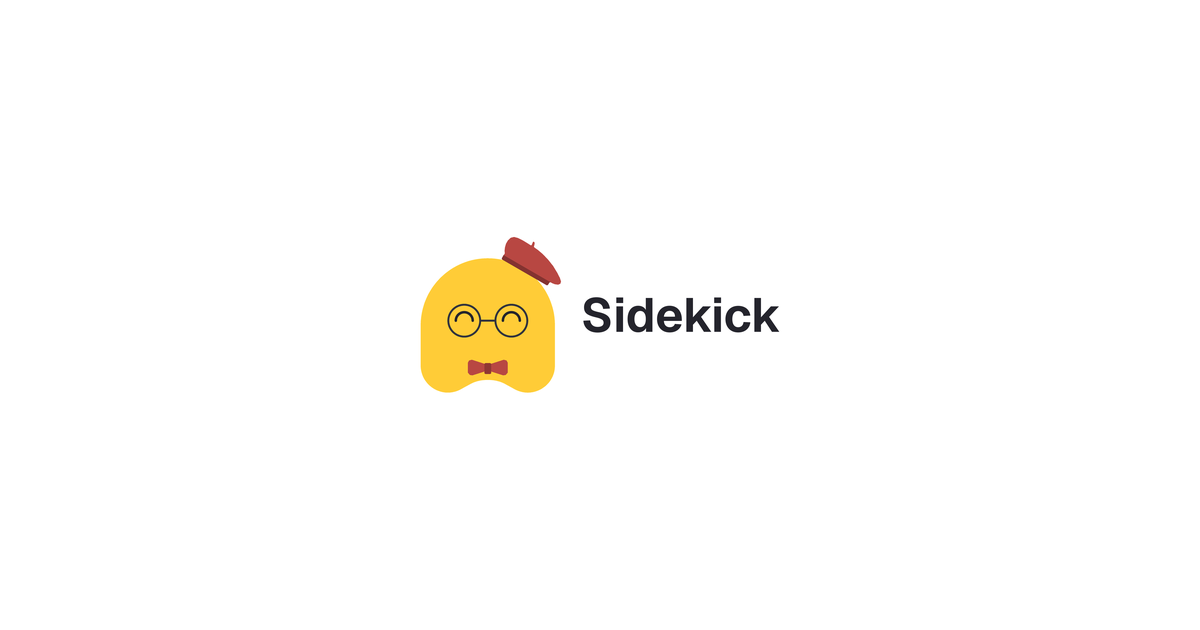
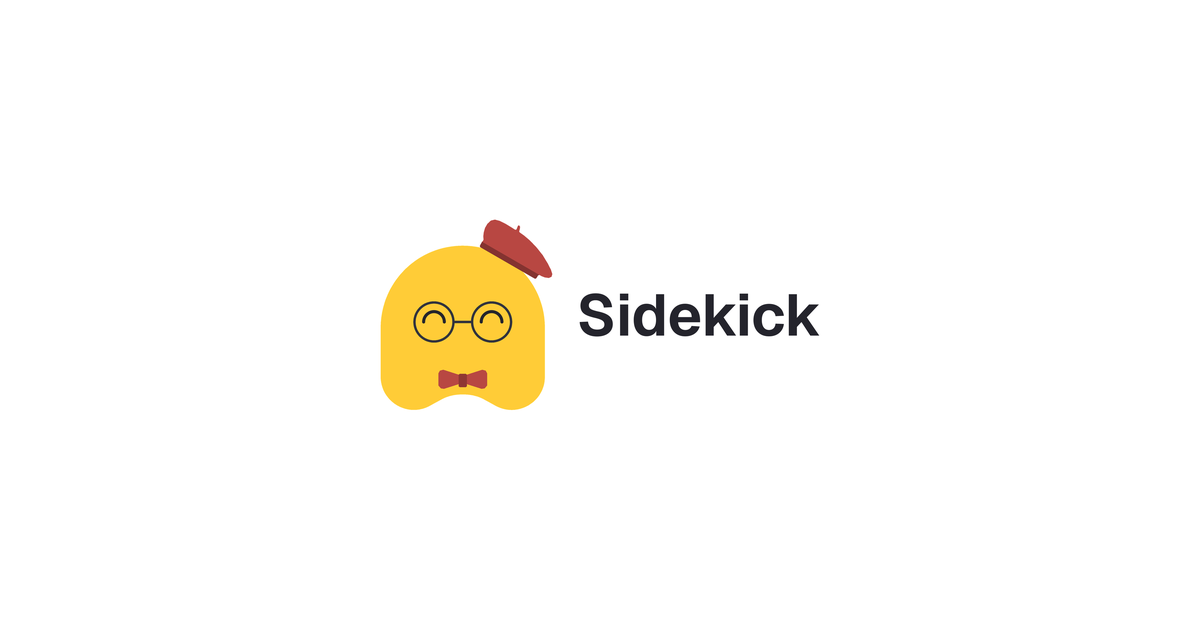
Set final OG composition to forty-four percent original scale

Changed region(s): [[0.3083, 0.3317, 0.6783, 0.6635]]

diff --git a/tests/composition.test.ts b/tests/composition.test.ts
@@ -7,7 +7,7 @@ test('OG scene uses requested actual character, outfits and expression', () => {
 test('composition roundtrip preserves avatar and framing independently',()=>{ const composition={...defaultComposition(),text:'두 줄\nSidekick',width:1080,height:1080}; const avatar=ogAvatarScene(); assert.deepEqual(parseCompositionDocument(serializeComposition(composition,avatar)),{composition,avatar}); });
 test('previous scene and bare design remain importable',()=>{ for(const data of [ogAvatarScene(),createDesign()]){const doc=parseCompositionDocument(JSON.stringify(data));assert.deepEqual(doc.composition,defaultComposition());assert.equal(doc.avatar.design.version,7);} });
 test('strict validation bounds pixel allocation and rejects malformed values',()=>{ for(const patch of [{width:4096,height:4096},{width:320.5},{characterX:NaN},{font:'url(evil)'},{background:'red'},{text:'a'.repeat(201)},{surprise:1}])assert.throws(()=>parseComposition({...defaultComposition(),...patch}));assert.throws(()=>parseCompositionDocument(' '.repeat(131073)));assert.throws(()=>parseCompositionDocument(JSON.stringify({compositionVersion:2}))); });
-test('compositor uses exact full canvas size and image aspect ratio',()=>{ const calls:unknown[][]=[];const ctx={fillRect:(...a:unknown[])=>calls.push(['background',...a]),drawImage:(...a:unknown[])=>calls.push(['image',...a]),fillText:(...a:unknown[])=>calls.push(['text',...a])};const canvas={width:0,height:0,getContext:()=>ctx} as unknown as HTMLCanvasElement;const image={width:200,height:400} as unknown as HTMLImageElement;paintComposition(canvas,defaultComposition(),image);assert.equal(canvas.width,1200);assert.equal(canvas.height,630);assert.deepEqual(calls[0],['background',0,0,1200,630]);const draw=calls[1]!; assert.ok(Math.abs(Number(draw[4])-78.84)<0.01); assert.ok(Math.abs(Number(draw[5])-157.68)<0.01); const text=calls[2]!;assert.equal(text[1],'Sidekick');assert.ok(Math.abs(Number(text[2])-580.56)<0.01);assert.equal(text[3],315); });
+test('compositor uses exact full canvas size and image aspect ratio',()=>{ const calls:unknown[][]=[];const ctx={fillRect:(...a:unknown[])=>calls.push(['background',...a]),drawImage:(...a:unknown[])=>calls.push(['image',...a]),fillText:(...a:unknown[])=>calls.push(['text',...a])};const canvas={width:0,height:0,getContext:()=>ctx} as unknown as HTMLCanvasElement;const image={width:200,height:400} as unknown as HTMLImageElement;paintComposition(canvas,defaultComposition(),image);assert.equal(canvas.width,1200);assert.equal(canvas.height,630);assert.deepEqual(calls[0],['background',0,0,1200,630]);const draw=calls[1]!; assert.ok(Math.abs(Number(draw[4])-96.36)<0.01); assert.ok(Math.abs(Number(draw[5])-192.72)<0.01); const text=calls[2]!;assert.equal(text[1],'Sidekick');assert.ok(Math.abs(Number(text[2])-576.24)<0.01);assert.equal(text[3],315); });
 test('both entry pages expose canonical social metadata without script execution',()=>{for(const f of ['index.html','playground/index.html']){const html=readFileSync(f,'utf8');assert.match(html,/og:image" content="https:\/\/sidekick.hananakick.cc\/og-sidekick.png/);assert.match(html,/twitter:card" content="summary_large_image/);assert.match(html,/og:image:width" content="1200/);assert.match(html,/og:image:height" content="630/);}});
 
-test('OG composition keeps the1200×630 canvas and scales artwork to36percent',()=>{const p=defaultComposition();assert.equal(p.width,1200);assert.equal(p.height,630);assert.ok(Math.abs(p.characterHeight-438/630*100*.36)<1e-8);assert.ok(Math.abs(p.fontSize-132*.36)<1e-8);assert.equal(p.characterY,50);assert.equal(p.textY,50);});
+test('OG composition keeps the1200×630 canvas and scales artwork to44percent',()=>{const p=defaultComposition();assert.equal(p.width,1200);assert.equal(p.height,630);assert.ok(Math.abs(p.characterHeight-438/630*100*.44)<1e-8);assert.ok(Math.abs(p.fontSize-132*.44)<1e-8);assert.equal(p.characterY,50);assert.equal(p.textY,50);});

diff --git a/playground/composition.ts b/playground/composition.ts
@@ -3,7 +3,7 @@ import { createScene, migrateScene } from '../src/core/scene.js';
 import type { SidekickScene } from '../src/core/scene.js';
 export interface Composition { width: number; height: number; background: string; characterX: number; characterY: number; characterHeight: number; text: string; textX: number; textY: number; fontSize: number; textColor: string; font: 'sans' | 'serif' | 'mono' }
 export const FONT_FAMILIES = { sans: '"Geist Variable", Arial, sans-serif', serif: 'Georgia, serif', mono: 'monospace' };
-export const defaultComposition = (): Composition => ({ width: 1200, height: 630, background: '#ffffff', characterX: 40.88, characterY: 50, characterHeight: 25.0285714286, text: 'Sidekick', textX: 48.38, textY: 50, fontSize: 47.52, textColor: '#24242c', font: 'sans' });
+export const defaultComposition = (): Composition => ({ width: 1200, height: 630, background: '#ffffff', characterX: 38.8533333333, characterY: 50, characterHeight: 30.5904761905, text: 'Sidekick', textX: 48.02, textY: 50, fontSize: 58.08, textColor: '#24242c', font: 'sans' });
 export function parseComposition(input: unknown): Composition {
   if (!input || typeof input !== 'object' || Array.isArray(input)) throw new Error('장면 배치 객체가 필요합니다.');
   const p = input as Record<string, unknown>, defaults = defaultComposition();
